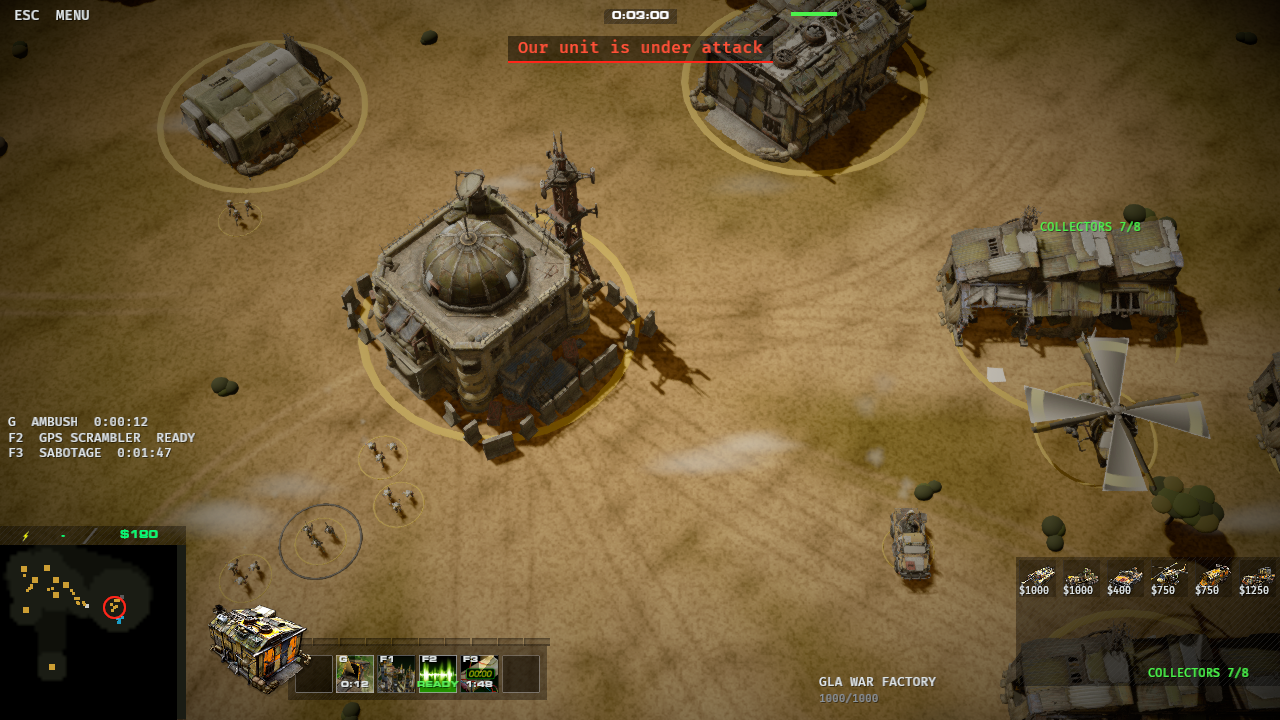
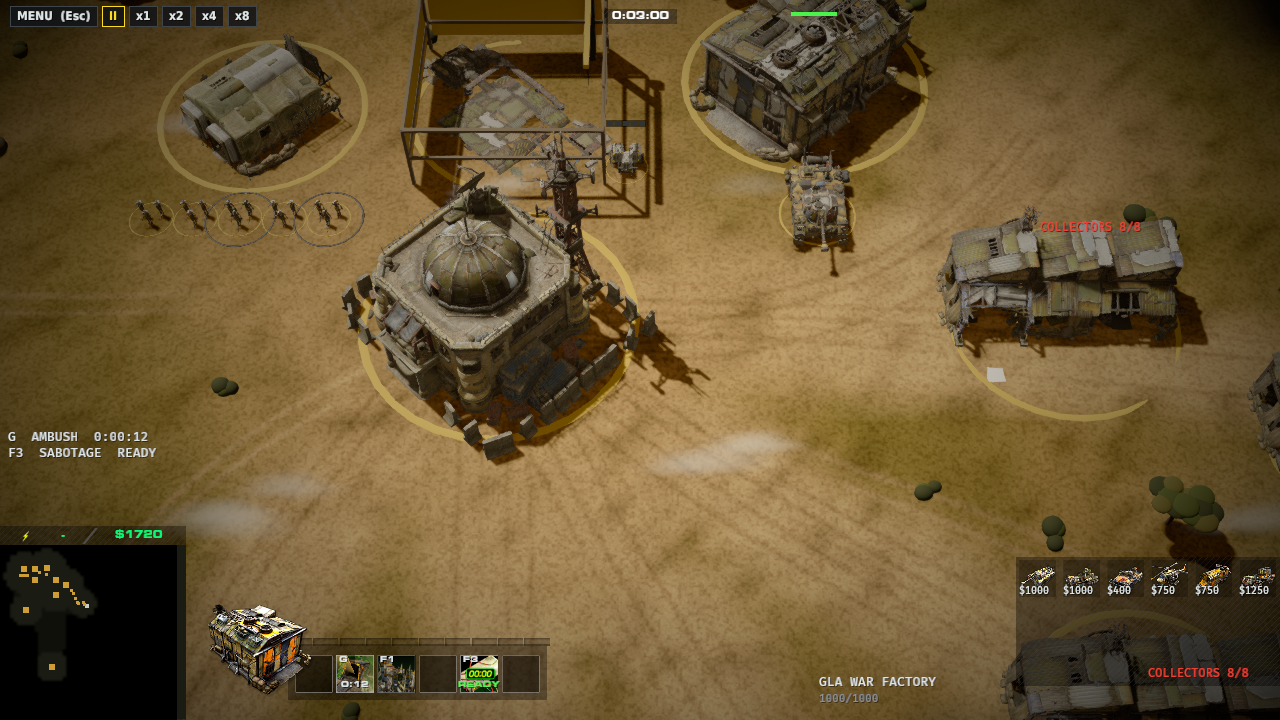
docs: status and media for v0.15.0
README status is milestone 13. Site: the in-match gallery shots (Cutting
Edge, Junkyard, Thrax, and the two looks side by side) are re-rendered on
this build, so they show the HUD's menu and speed buttons and the support
powers a rank-3 AI general has now; their captions say which powers come
at which rank.

diff --git a/site/index.html b/site/index.html
@@ -257,15 +257,15 @@
     </figure>
     <figure>
       <img src="img/base.png" alt="A GLA base under General Junkyard at three minutes with the war factory selected: six vehicles in the build tray, the Ambush power counting down">
-      <figcaption>GLA under Junkyard at three minutes: the war factory trains the Shrapnel Tank in place of the Scorpion, plus the Battle Bus and Black Market Artillery. G arms the general's Ambush, F2 the GPS Scrambler.</figcaption>
+      <figcaption>GLA under Junkyard at three minutes: the war factory trains the Shrapnel Tank in place of the Scorpion, plus the Battle Bus and Black Market Artillery. G arms the general's Ambush, F3 Sabotage; the GPS Scrambler comes at general rank 5.</figcaption>
     </figure>
     <figure>
       <img src="img/battle.png" alt="An EU base under General Cutting Edge at four minutes, war factory selected: Aegis, Assault APC and Heavy Assault Laser in the build grid">
-      <figcaption>EU under Cutting Edge at four minutes: the Assault APC and Heavy Assault Laser in the war factory, the general's Skylance ready beside the Air Raid and Fuel Air Bomb.</figcaption>
+      <figcaption>EU under Cutting Edge at four minutes: the Assault APC and Heavy Assault Laser in the war factory, the general's Skylance ready beside the Air Raid and UAV Spy Drone (the Fuel Air Bomb comes at rank 5).</figcaption>
     </figure>
     <figure>
-      <img src="img/thrax.png" alt="A GLA base under General Thrax at six minutes with the command center selected and Toxin Bomb ready">
-      <figcaption>GLA under Thrax at six minutes, the command center selected: the Toxin Bomb ready beside the GPS Scrambler.</figcaption>
+      <img src="img/thrax.png" alt="A GLA base under General Thrax at six minutes with the command center selected, the Toxin Bomb recharging">
+      <figcaption>GLA under Thrax at six minutes, the command center selected: the Toxin Bomb recharging beside Sabotage.</figcaption>
     </figure>
     <figure>
       <img src="img/maps.png" alt="Zero Hour's Tournament Desert imported into Open RTS, whole map revealed">

diff --git a/README.md b/README.md
@@ -6,7 +6,7 @@ Open-source recreation of the cancelled *Command & Conquer: Generals 2*, as a ne
 
 The engine needs no game files. EA's GPL release of *Generals/Zero Hour* in `vendor/` is reference for the engine: no code from it is ported or copied into `crates/`. The one runtime use of `vendor/` is map data: the original Generals and Zero Hour **maps** can be played, read at runtime from EA's GPL map sources (`vendor/ea/CnC_Modding_Support`, a git submodule) and never copied into this repository. All art is original and procedural: meshes built from primitives, generated terrain and textures, our own HUD design. The archived 2013 footage sets the target mood (warm hard light, steep camera, savanna ground); `docs/STYLE.md` describes it as requirements, not as elements to copy.
 
-## Status: milestone 12, skirmish in teams against three AI levels, missions, heroes, co-op and internet play on Linux, Windows and macOS, Generals' menus, the alpha's systems, generals and abilities
+## Status: milestone 13, skirmish in teams against three AI levels, missions, heroes, co-op and internet play on Linux, Windows and macOS, Generals' menus with real dropdowns, support powers by command center and rank, the alpha's systems, generals and abilities
 
 What works:
 
